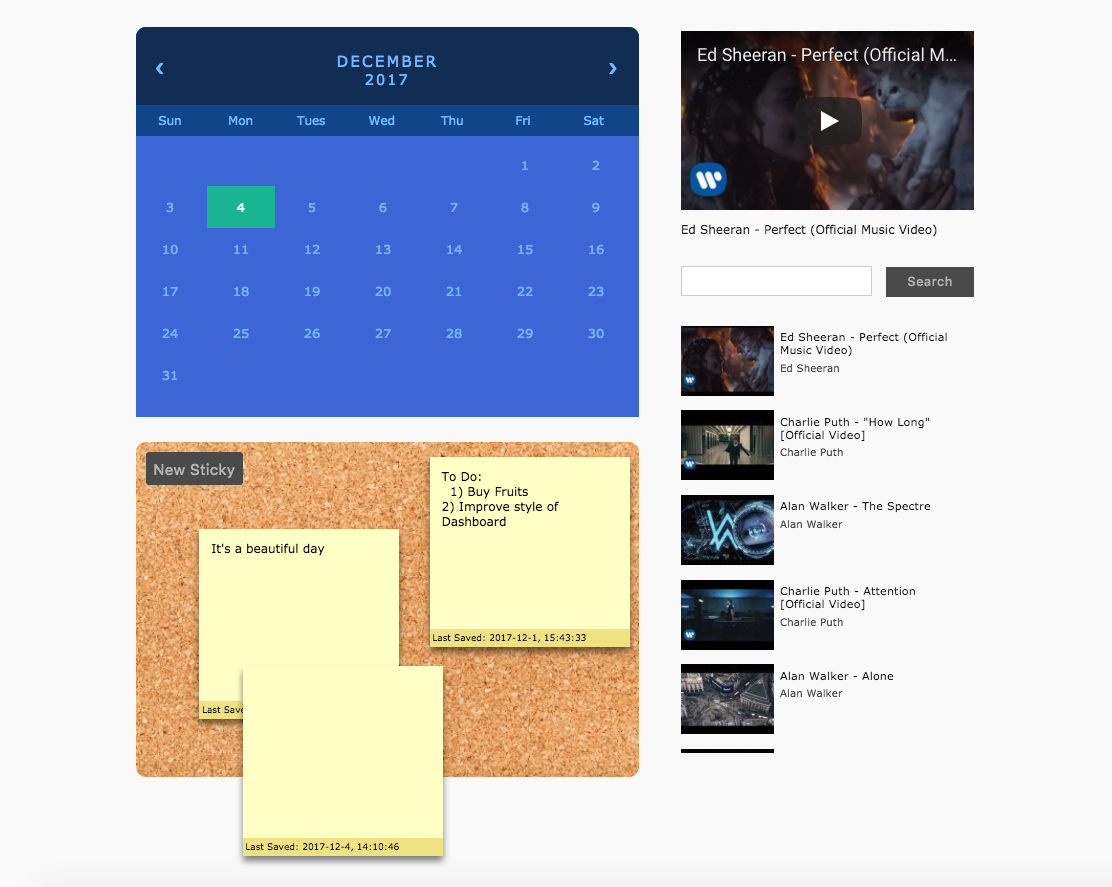
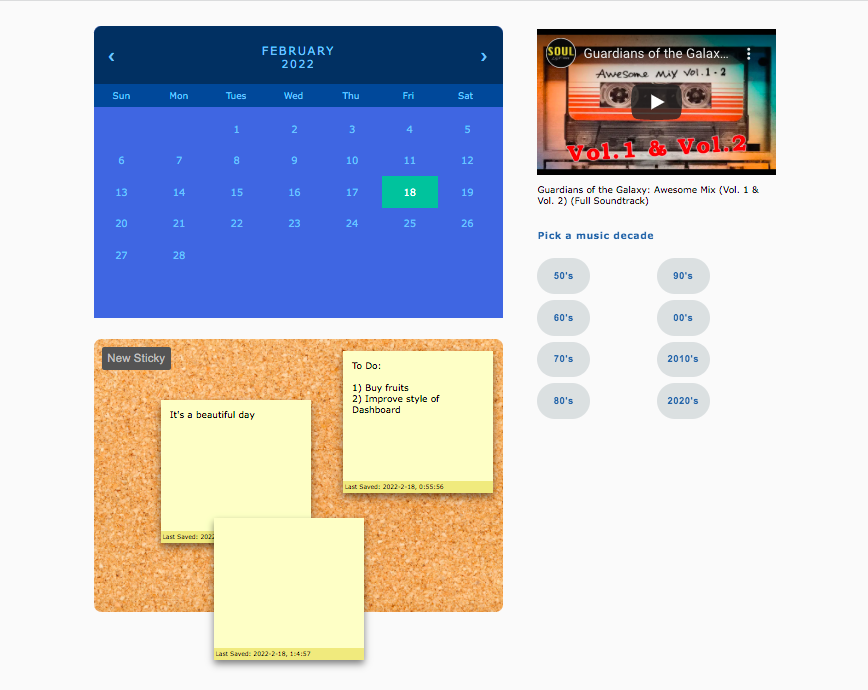
changed pic of personal dashboard app which was updated

diff --git a/index.html b/index.html
@@ -70,7 +70,7 @@
                     Calendar - Leap Year accounted for
                   </li>
                   <li>
-                    YouTube with searchbar for music or funny video
+                    YouTube video of songs from selected music decade
                   </li>
                   <li>
                     Stickys for notes to self
